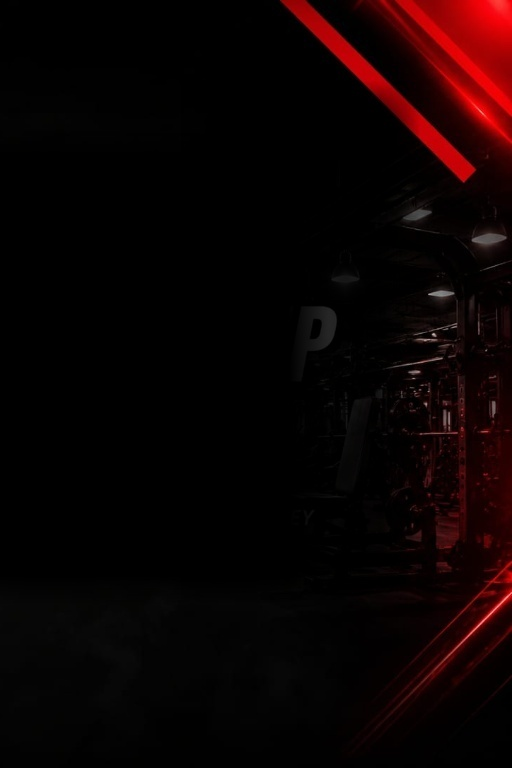
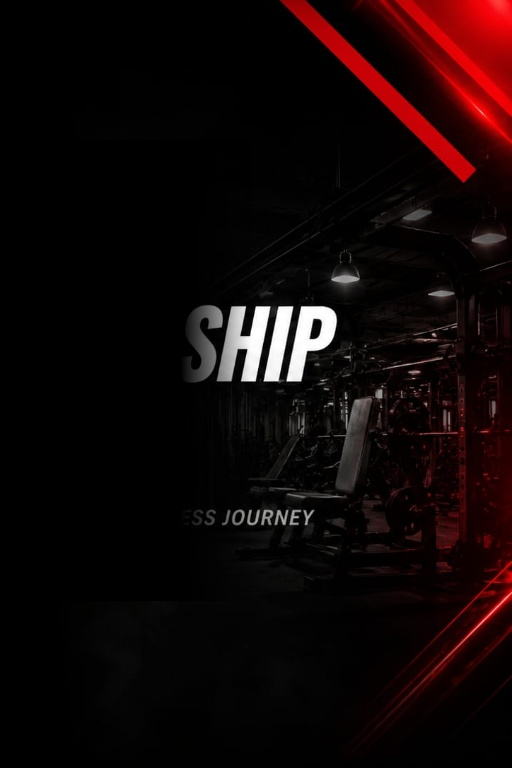
style(membership): restore full bodybuilder, gym graphics and background typography to match exact mockup

Changed region(s): [[0.3438, 0.3438, 0.7812, 0.7188], [0.7188, 0.0938, 0.8125, 0.1875], [0.625, 0.6875, 0.6562, 0.7188]]

diff --git a/src/components/Membership.tsx b/src/components/Membership.tsx
@@ -237,23 +237,20 @@ export default function Membership() {
         {/* Top-Left Muscular Bodybuilder Photo Background */}
         <div className="absolute top-0 left-0 w-[50%] h-[380px] lg:h-[480px] opacity-[0.95] lg:opacity-[1.0] z-0 pointer-events-none">
           <img 
-            src="/membership-left-clean.jpg?v=2" 
+            src="/membership-left-clean.jpg?v=3" 
             alt="Bodybuilder decoration"
             className="w-full h-full object-cover object-left filter contrast-110 brightness-[0.8] animate-bodybuilder-breathe"
           />
-          {/* Blend gradient that fades out to black towards the center */}
-          <div className="absolute inset-0 bg-gradient-to-r from-transparent via-[#09090b]/20 to-[#09090b] via-[75%] lg:via-[60%]" />
           <div className="absolute inset-0 bg-gradient-to-b from-transparent to-[#09090b]" />
         </div>
 
         {/* Top-Right Gym Equipment Poster Texture */}
         <div className="absolute top-0 right-0 w-[50%] h-[380px] lg:h-[480px] opacity-[0.85] lg:opacity-[0.95] z-0 pointer-events-none">
           <img 
-            src="/membership-right-clean.jpg?v=2" 
+            src="/membership-right-clean.jpg?v=3" 
             alt="Gym background"
             className="w-full h-full object-cover object-right filter contrast-110 brightness-[0.8]"
           />
-          <div className="absolute inset-0 bg-gradient-to-l from-transparent via-[#09090b]/20 to-[#09090b] via-[75%] lg:via-[60%]" />
           <div className="absolute inset-0 bg-gradient-to-b from-transparent to-[#09090b]" />
         </div>
       </div>